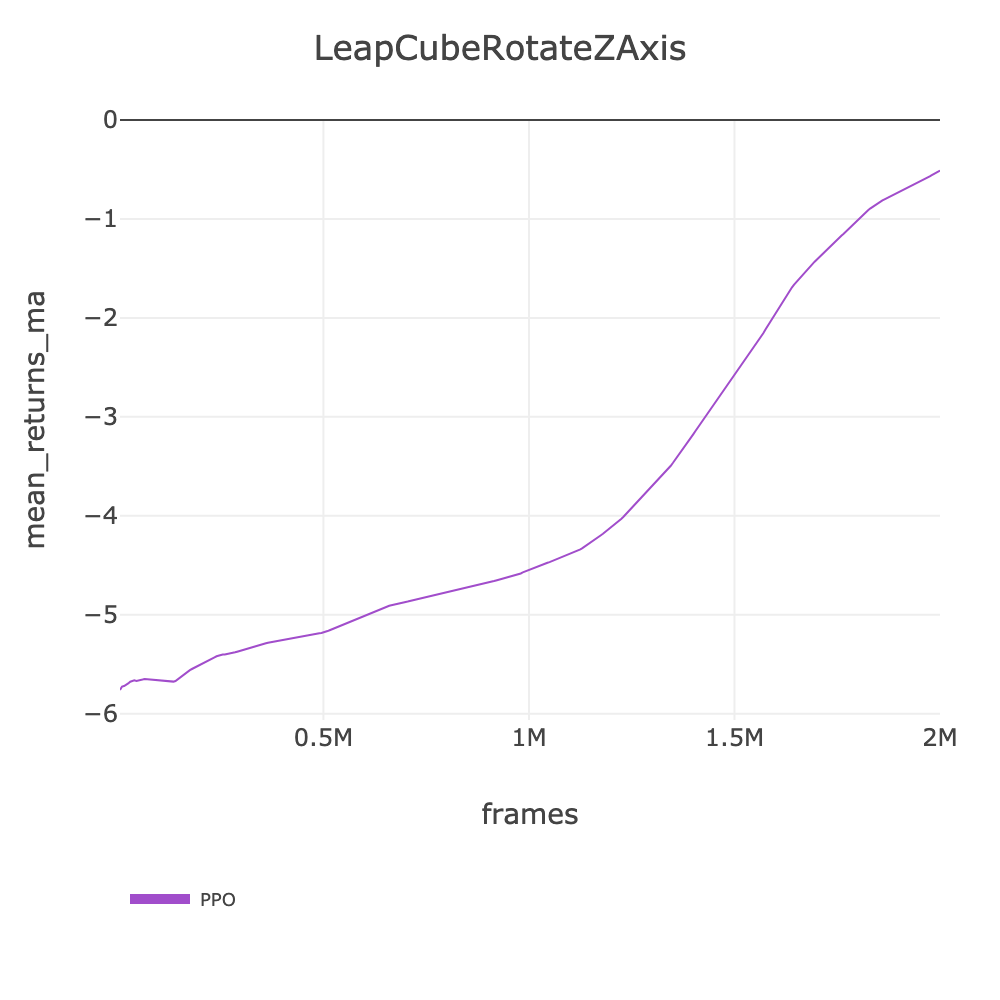
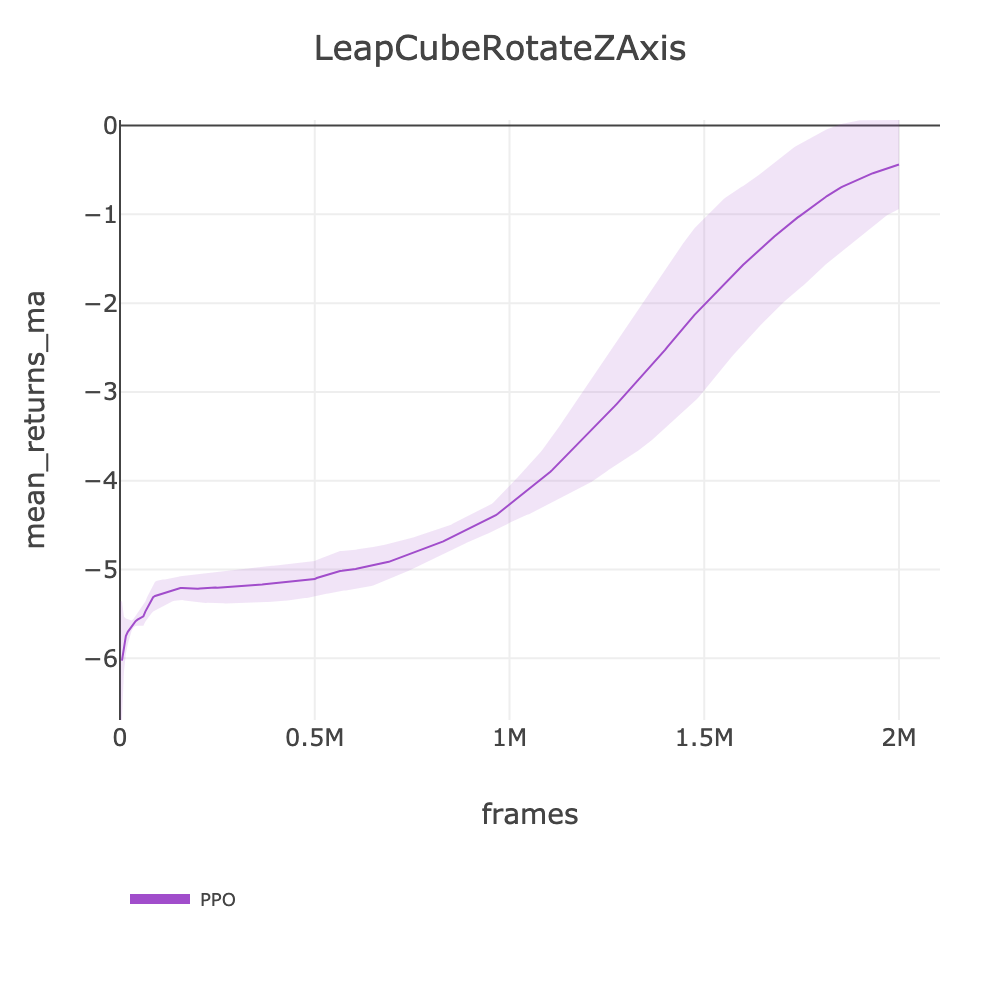
fix: manip plots batch 3 — PandaPickCube, LeapCubeRotateZAxis 4-session reruns

diff --git a/docs/BENCHMARKS.md b/docs/BENCHMARKS.md
@@ -966,13 +966,13 @@ source .env && slm-lab run-remote --gpu -s env=playground/CartpoleBalance -s max
 | playground/LeapCubeReorient | PPO loco | -10.19 | N/A | ~240 (loco/64e) | 4M | ~4.6h | [ppo_playground_arc_loco_leapcubereorient_2026_03_08_093428](https://huggingface.co/datasets/SLM-Lab/benchmark-dev/tree/main/data/ppo_playground_arc_loco_leapcubereorient_2026_03_08_093428) |
 | | SAC | - | | - | - | - | - |
 | | CrossQ | - | | - | - | - | - |
-| playground/LeapCubeRotateZAxis | PPO loco | -0.51 | N/A | ~122 (loco/64e) | 2M | ~4.5h | [ppo_playground_arc_loco_leapcuberotatezaxis_2026_03_08_094515](https://huggingface.co/datasets/SLM-Lab/benchmark-dev/tree/main/data/ppo_playground_arc_loco_leapcuberotatezaxis_2026_03_08_094515) |
+| playground/LeapCubeRotateZAxis | PPO loco | -0.44 | N/A | ~122 (loco/64e) | 2M | ~4.5h | [ppo_playground_arc_loco_leapcuberotatezaxis_2026_03_09_120722](https://huggingface.co/datasets/SLM-Lab/benchmark-dev/tree/main/data/ppo_playground_arc_loco_leapcuberotatezaxis_2026_03_09_120722) |
 | | SAC | - | | - | - | - | - |
 | | CrossQ | - | | - | - | - | - |
 | playground/PandaOpenCabinet | PPO loco | 1556.88 | N/A | ~279 (loco/64e) | 4M | ~4.0h | [ppo_playground_arc_loco_pandaopencabinet_2026_03_08_093515](https://huggingface.co/datasets/SLM-Lab/benchmark-dev/tree/main/data/ppo_playground_arc_loco_pandaopencabinet_2026_03_08_093515) |
 | | SAC | - | | - | - | - | - |
 | | CrossQ | - | | - | - | - | - |
-| playground/PandaPickCube | PPO loco | 705.30 | N/A | ~249 (loco/64e) | 4M | ~4.5h | [ppo_playground_arc_loco_pandapickcube_2026_03_08_093457](https://huggingface.co/datasets/SLM-Lab/benchmark-dev/tree/main/data/ppo_playground_arc_loco_pandapickcube_2026_03_08_093457) |
+| playground/PandaPickCube | PPO loco | 594.20 | N/A | ~249 (loco/64e) | 4M | ~4.5h | [ppo_playground_arc_loco_pandapickcube_2026_03_09_120645](https://huggingface.co/datasets/SLM-Lab/benchmark-dev/tree/main/data/ppo_playground_arc_loco_pandapickcube_2026_03_09_120645) |
 | | SAC | - | | - | - | - | - |
 | | CrossQ | - | | - | - | - | - |
 | playground/PandaPickCubeCartesian | PPO | - | N/A | - | - | - | - |
